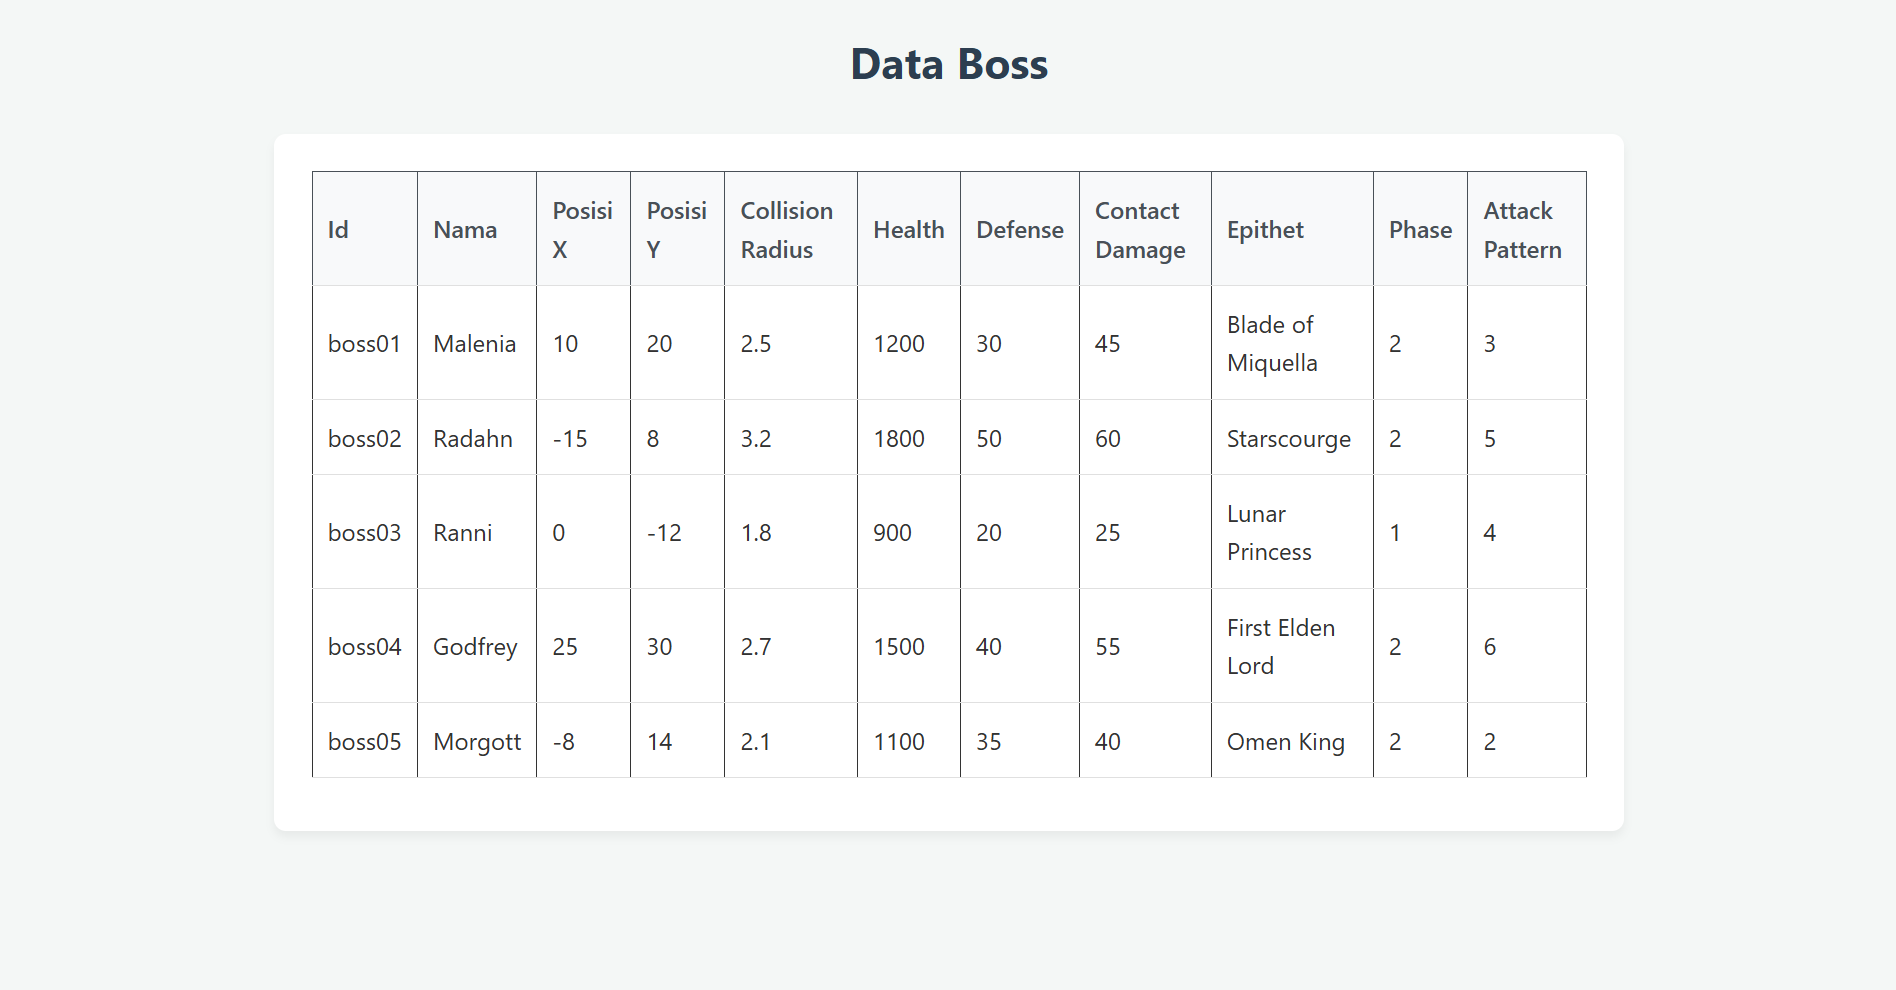
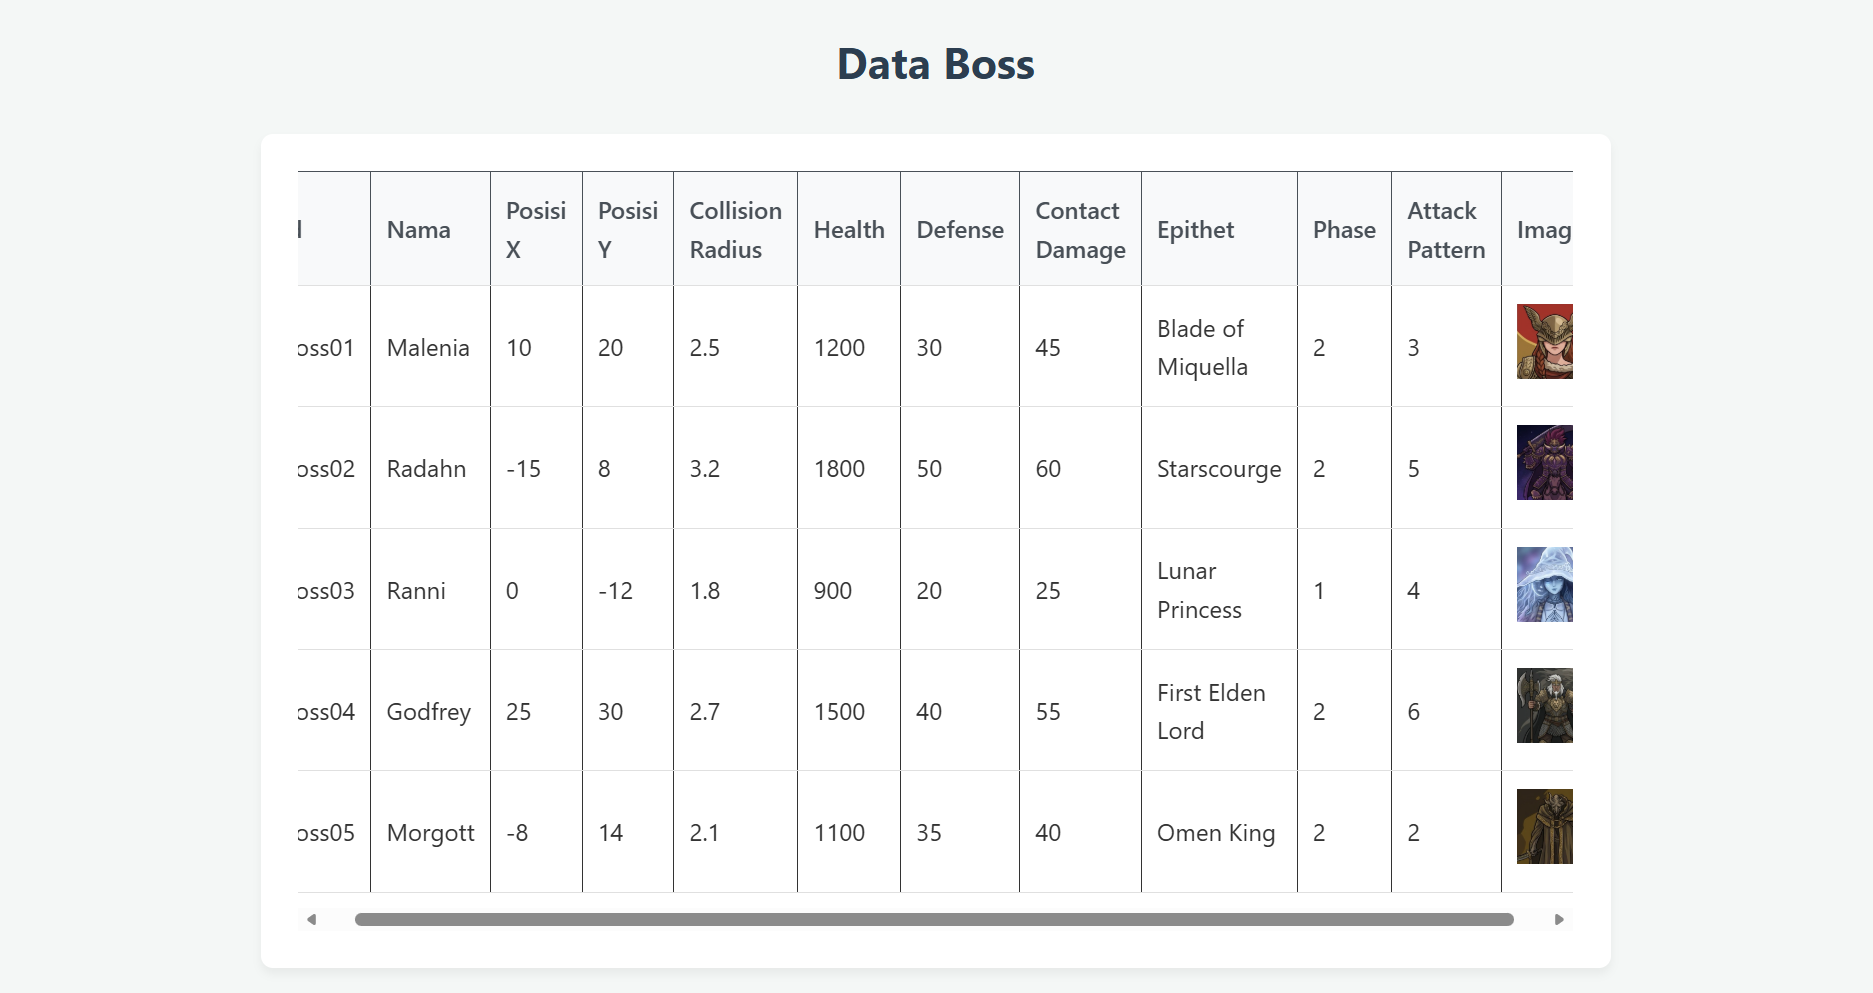
feat: added image attribute

diff --git a/php/style.css b/php/style.css
@@ -69,6 +69,14 @@ th {
     font-weight: 600;
 }
 
+table img {
+    display: block;
+    width: 100px;
+    height: 100px;
+    object-fit: cover;
+    border-radius: 4px;
+}
+
 /* --- INPUT STYLES IN TABLE & FORM --- */
 input[type="text"],
 input[type="number"] {

diff --git a/php/index.php b/php/index.php
@@ -7,11 +7,24 @@
     if(!isset($_SESSION['listBosses'])){
         $_SESSION['listBosses'] = [];
         // initial dummy data
-        $_SESSION['listBosses'][] = new Bosses("boss01", "Malenia", 10, 20, 2.5, 1200, 30, 45, "Blade of Miquella", 2, 3);
-        $_SESSION['listBosses'][] = new Bosses("boss02", "Radahn", -15, 8, 3.2, 1800, 50, 60, "Starscourge", 2, 5);
-        $_SESSION['listBosses'][] = new Bosses("boss03", "Ranni", 0, -12, 1.8, 900, 20, 25, "Lunar Princess", 1, 4);
-        $_SESSION['listBosses'][] = new Bosses("boss04", "Godfrey", 25, 30, 2.7, 1500, 40, 55, "First Elden Lord", 2, 6);
-        $_SESSION['listBosses'][] = new Bosses("boss05", "Morgott", -8, 14, 2.1, 1100, 35, 40, "Omen King", 2, 2);
+        $_SESSION['listBosses'][] = new Bosses("boss01", "Malenia", 10, 20, 2.5, 1200, 30, 45, "Blade of Miquella", 2, 3, "malenia.jpg");
+        $_SESSION['listBosses'][] = new Bosses("boss02", "Radahn", -15, 8, 3.2, 1800, 50, 60, "Starscourge", 2, 5, "radahn.jpg");
+        $_SESSION['listBosses'][] = new Bosses("boss03", "Ranni", 0, -12, 1.8, 900, 20, 25, "Lunar Princess", 1, 4, "ranni.jpg");
+        $_SESSION['listBosses'][] = new Bosses("boss04", "Godfrey", 25, 30, 2.7, 1500, 40, 55, "First Elden Lord", 2, 6, "godfrey.jpg");
+        $_SESSION['listBosses'][] = new Bosses("boss05", "Morgott", -8, 14, 2.1, 1100, 35, 40, "Omen King", 2, 2, "morgott.jpg");
+    }
+
+    $defaultImages = [
+        'boss01' => 'malenia.jpg',
+        'boss02' => 'radahn.jpg',
+        'boss03' => 'ranni.jpg',
+        'boss04' => 'godfrey.jpg',
+        'boss05' => 'morgott.jpg'
+    ];
+    foreach($_SESSION['listBosses'] as $boss){
+        if($boss !== null && $boss->getImage() === '' && isset($defaultImages[$boss->getId()])){
+            $boss->setImage($defaultImages[$boss->getId()]);
+        }
     }
 ?>
 
@@ -48,6 +61,7 @@
                                 <th>Epithet</th>
                                 <th>Phase</th>
                                 <th>Attack Pattern</th>
+                                <th>Image</th>
                             </tr>
                         </thead>
                         <tbody>
@@ -67,6 +81,12 @@
                                         echo "<td>".htmlspecialchars($data->getEpithet(), ENT_QUOTES, 'UTF-8')."</td>";
                                         echo "<td>".$data->getPhase()."</td>";
                                         echo "<td>".$data->getAttackPattern()."</td>";
+                                        $image = basename($data->getImage());
+                                        echo "<td>";
+                                        if($image !== ''){
+                                            echo "<img src=\"".htmlspecialchars($image, ENT_QUOTES, 'UTF-8')."\" width=\"50\">";
+                                        }
+                                        echo "</td>";
                                         echo "</tr>";
                                     }
                                 }

diff --git a/php/Bosses.php b/php/Bosses.php
@@ -8,14 +8,16 @@
         private string $epithet;
         private int $phase;
         private int $attackPattern;
+        private string $image = '';
 
         // constructor (memanggil constructor Enemy)
-        public function __construct(string $id, string $name, int $Xpos, int $Ypos, float $collisionRadius, int $health, int $defense, int $contactDamage, string $epithet, int $phase, int $attackPattern)
+        public function __construct(string $id, string $name, int $Xpos, int $Ypos, float $collisionRadius, int $health, int $defense, int $contactDamage, string $epithet, int $phase, int $attackPattern, string $image)
         {
             parent::__construct($id, $name, $Xpos, $Ypos, $collisionRadius, $health, $defense, $contactDamage);
             $this->epithet = $epithet;
             $this->phase = $phase;
             $this->attackPattern = $attackPattern;
+            $this->image = $image;
         }
 
         // setter method
@@ -31,6 +33,10 @@
         {
             $this->attackPattern = $attackPattern;
         }
+        public function setImage(string $image)
+        {
+            $this->image = $image;
+        }
 
         // getter method
         public function getEpithet()
@@ -44,6 +50,10 @@
         public function getAttackPattern()
         {
             return $this->attackPattern;
+        }
+        public function getImage()
+        {
+            return $this->image;
         }
     }
 ?>
